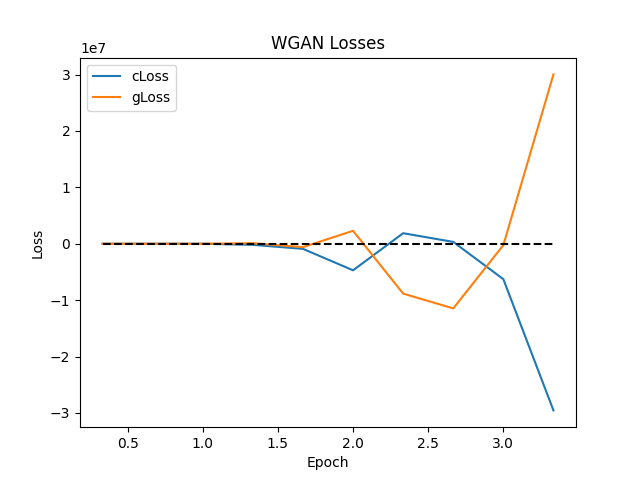
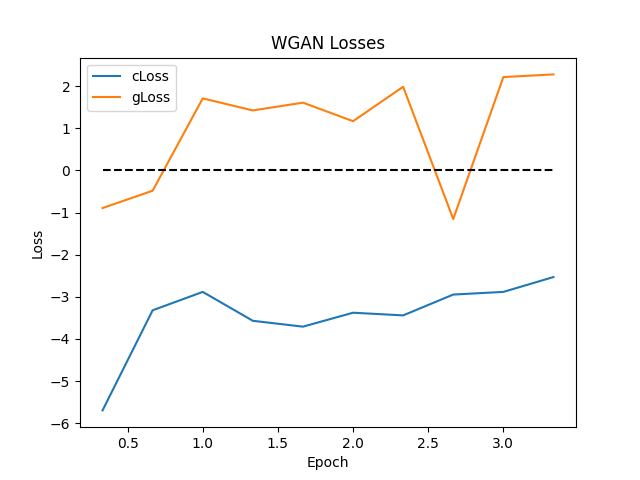
sliced multi input instead of keras 2 input

diff --git a/src/networks/gans/stateFulGan.py b/src/networks/gans/stateFulGan.py
@@ -6,6 +6,7 @@ import matplotlib.pyplot as plt
 
 from utils import filePaths as fp, globalVars as gv, common
 from utils.common import ml_data
+from networks import kerasSubclasses as kSubs
 from networks.gans import genApi, wgan
 from names import binaryCasasNames as bcNames
 from networks import commonBlocks as cBlocks, defaults
@@ -103,7 +104,7 @@ def nn_diagram(model, imgFile=None):
                               show_dtype=True,
                               show_layer_names=True)
 
-def get_lstm_generator(batchSize=BATCH_SIZE) -> keras.models.Model:
+def get_lstm_generator_multi_out(batchSize=BATCH_SIZE) -> keras.models.Model:
     # goal: 16 X 48
     inputLayer = keras.Input(
         batch_shape=(batchSize, 1, NOISE_DIM,)
@@ -147,8 +148,53 @@ def get_lstm_generator(batchSize=BATCH_SIZE) -> keras.models.Model:
 
     model = keras.models.Model(inputs=[inputLayer], outputs=[timeOut, sensors], name=LSTM_GENERATOR_NAME)
     return model
+def get_lstm_generator(batchSize=BATCH_SIZE) -> keras.models.Model:
+    # goal: 16 X 48
+    inputLayer = keras.Input(
+        batch_shape=(batchSize, 1, NOISE_DIM,)
+    )
 
-def get_critic() -> keras.models.Model:
+    nFilters = 100
+    padding = 'causal'
+
+    args = [
+        cBlocks.conv_args(nFilters=nFilters, kernelSize=4,),
+        cBlocks.conv_args(nFilters=nFilters, kernelSize=2,),
+        cBlocks.conv_args(nFilters=nFilters, kernelSize=2,),
+    ]
+
+    x = layers.Conv1DTranspose(**args[0].kwargs)(inputLayer)
+    x = cBlocks.block(x, activation=defaults.leaky_relu(), use_bn=True, )
+
+    for arg in args[1:]:
+        x = layers.Conv1DTranspose(**arg.kwargs)(x)
+        x = cBlocks.block(x, activation=defaults.leaky_relu(), use_bn=True, )
+
+    x = layers.Bidirectional(
+        layers.LSTM(
+            bcNames.nGanFeatures,
+            stateful=True,
+            return_sequences=True
+        )
+    )(x)
+    x = layers.BatchNormalization()(x)
+    time = layers.Dense(len(bcNames.ProcessedTime.order), keras.activations.hard_sigmoid)(x)
+
+    doyTrig = layers.Conv1D(2, kernel_size=4, padding=padding, activation=keras.activations.hard_sigmoid)(time)
+    timeDayTrig = layers.Conv1D(2, kernel_size=4, padding=padding, activation=keras.activations.hard_sigmoid)(time)
+    timeDif = layers.Conv1D(1, kernel_size=4, padding=padding, activation=keras.activations.sigmoid)(time)
+
+    sensors = layers.Conv1D(len(bcNames.allSensors), kernel_size=3, padding=padding,
+                         activation=keras.activations.softmax)(x)
+    # sensors = layers.Dense(len(bcNames.allSensors), keras.activations.softmax)(x)
+
+    x = layers.Concatenate()([timeDif, doyTrig, timeDayTrig, sensors])
+
+    model = keras.models.Model(inputs=[inputLayer], outputs=[x], name=LSTM_GENERATOR_NAME)
+    return model
+
+#uncontrollable giant losses for critic and gen with multi-in and multi-out
+def get_critic_multi_in() -> keras.models.Model:
     # 128 time steps
     timeInput = keras.Input(
         shape=(CRITIC_TIME_STEPS, len(bcNames.ProcessedTime.order))
@@ -193,6 +239,51 @@ def get_critic() -> keras.models.Model:
     x = layers.Dense(1)(x)
 
     model = keras.models.Model(inputs=[timeInput, sensorInput], outputs=[x], name= CRITIC_NAME)
+    return model
+
+def get_critic() -> keras.models.Model:
+    # 128 time steps
+    inputLayer = keras.Input(
+        shape=(CRITIC_TIME_STEPS, bcNames.nGanFeatures)
+    )
+    times = kSubs.SliceInnerMost(bcNames.pivots.time.start, bcNames.pivots.time.stop)(inputLayer)
+    sensors = kSubs.SliceInnerMost(bcNames.pivots.sensors.start, bcNames.pivots.sensors.stop)(inputLayer)
+    sensors = layers.GaussianNoise(.1)(sensors)
+    x = layers.Concatenate(axis=-1)((times, sensors))
+    x = layers.Dense(bcNames.nGanFeatures, defaults.leaky_relu())(x)
+
+    padding='causal'
+    args = [
+        cBlocks.conv_args(nFilters=100, kernelSize=8, strides=4, padding=padding),
+        cBlocks.conv_args(nFilters=150, kernelSize=4, padding=padding),
+        cBlocks.conv_args(nFilters=150, kernelSize=3, padding=padding),
+        cBlocks.conv_args(nFilters=160, kernelSize=3, padding=padding),
+        cBlocks.conv_args(nFilters=160, kernelSize=2, padding=padding),
+        ]
+    # x = layers.Conv1D(**args[0].kwargs)(x)
+    # x = cBlocks.block(x, activation=defaults.leaky_relu(), use_bn=False, use_dropout=True, )
+    for arg in args:
+        x = layers.Conv1D(**arg.kwargs)(x)
+        x = cBlocks.block(x, activation=defaults.leaky_relu(), use_bn=False, use_dropout=True)
+
+    argsTime = [
+        cBlocks.conv_args(nFilters=5, kernelSize=8, strides=4, padding=padding),
+        cBlocks.conv_args(nFilters=10, kernelSize=4, padding=padding),
+        cBlocks.conv_args(nFilters=20, kernelSize=3, padding=padding),
+        cBlocks.conv_args(nFilters=30, kernelSize=3, padding=padding),
+        cBlocks.conv_args(nFilters=30, kernelSize=2, padding=padding),
+    ]
+    timex = layers.Conv1D(**argsTime[0].kwargs)(times)
+    timex = cBlocks.block(timex, activation=defaults.leaky_relu(), use_bn=False, use_dropout=True)
+    for arg in argsTime[1:]:
+        timex = layers.Conv1D(**arg.kwargs)(timex)
+        timex = cBlocks.block(timex, activation=defaults.leaky_relu(), use_bn=False, use_dropout=True)
+
+    x = layers.Concatenate()((timex, x))
+    x = layers.Flatten()(x)
+    x = layers.Dense(1)(x)
+
+    model = keras.models.Model(inputs=[inputLayer], outputs=[x], name= CRITIC_NAME)
     return model
 
 def get_data_gen(batchSize = BATCH_SIZE):
@@ -263,10 +354,7 @@ def run_gan(gan, epochs=NEPOCHS):
         def data_gen():
             while True:
                 idx = np.random.randint(0, trainData.shape[0], BATCH_SIZE)
-                yield [
-                    trainData[idx, ..., :bcNames.pivots.time.stop],
-                    trainData[idx, ..., bcNames.pivots.sensors.start:]
-                    ]
+                yield trainData[idx]
 
         dataGen = data_gen()
 
@@ -307,7 +395,8 @@ if __name__ == "__main__":
     # genOut = get_synthetic_data(loadGan, timeStepsFactor=100, nEpochs=0)
 
     gan = get_gan(loadGan)
-    gan = run_gan(gan)
+    if not loadGan:
+        gan = run_gan(gan)
 
     gan.generator.reset_states()
     genOut = genApi.get_nBatches_lstm(10, gen=gan.generator, noiseDim=NOISE_DIM, batchSize=BATCH_SIZE)

diff --git a/src/networks/gans/wgan.py b/src/networks/gans/wgan.py
@@ -144,9 +144,10 @@ class wgan(keras.Model):
 
         #cannot recreate the synthetic data multiple times else it will confuse the generator (in theory)
         # Train the generator
-        self.generator.reset_states()
+        if tf.random.uniform([]) < 1/3:
+            self.generator.reset_states()
         with tf.GradientTape() as tape:
-            fakeImgs = self.get_gen_out_for_critic_multiout()
+            fakeImgs = self.get_gen_out_for_critic()
             genImgLogits = self.critic(fakeImgs, training=True)
             gLoss = self.g_loss_fn(genImgLogits)
 
@@ -163,7 +164,7 @@ class wgan(keras.Model):
                 realLogits = self.critic(realImgs, training=True)
 
                 cCost = self.c_loss_fn(real_img=realLogits, fake_img=fakeLogits)
-                gp = self.gradient_penalty_multi_out(realImgs, fakeImgs)
+                gp = self.gradient_penalty(realImgs, fakeImgs)
                 cLoss = cCost + gp * self.gpWeight
 
             cGradient = tape.gradient(cLoss, self.critic.trainable_variables)

diff --git a/src/networks/kerasSubclasses.py b/src/networks/kerasSubclasses.py
@@ -1,0 +1,20 @@
+import tensorflow as tf
+from tensorflow import keras
+
+
+class SliceInnerMost(keras.layers.Layer):
+    def __init__(self, begin, end,**kwargs):
+        super(SliceInnerMost, self).__init__(**kwargs)
+        self.begin = begin
+        self.end = end
+
+    def get_config(self):
+
+        config = super().get_config().copy()
+        config.update({
+            'begin': self.begin,
+            'end': self.end,
+        })
+        return config
+    def call(self, inputs):
+        return inputs[...,self.begin: self.end]
